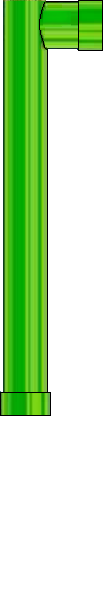
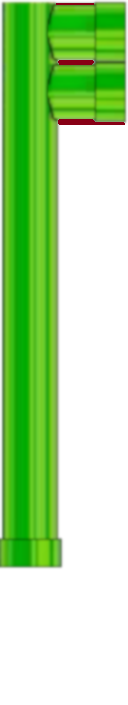
level 23

Changed region(s): [[0.0, 0.0, 1.0, 0.8114]]

diff --git a/other/mariozuma-lode/files/levels.js b/other/mariozuma-lode/files/levels.js
@@ -1052,7 +1052,6 @@ class Scene21 extends MainScene{
     }
 }
 
-
 class Scene22 extends MainScene{
 
     constructor(){
@@ -1062,7 +1061,7 @@ class Scene22 extends MainScene{
 
         this.kupaRows= [ {'row': 2, 'side': 'left'}, {'row': 2, 'side': 'right'} ];
 
-        this.nextScene['left'] = 'Scene10';
+        this.nextScene['left'] = 'Scene23';
         this.exits['left']['x'] = '0';
         this.exits['left']['y'] = '2';
 
@@ -1086,8 +1085,79 @@ class Scene22 extends MainScene{
             xs.forEach(x => this.add.sprite(x*Globals.TILE_WIDTH, y*Globals.TILE_WIDTH, 'brick'));
         }
 
-        let pipe = this.add.sprite(60, 450 -Globals.TILE_WIDTH, 'pipe-down');
+        let pipe = this.add.sprite(61, 440 -Globals.TILE_WIDTH, 'pipe-down');
         pipe.setDepth(10)
+    }
+
+    //@Overrride
+    checkExit(){
+         const coords = this.calculateSpriteSquare(this.player);
+
+        const directions = ['left', 'right'];
+
+        directions.forEach( d => {
+            const exitX = this.exits[d]['x'];
+            const exitY = this.exits[d]['y'];
+
+            if (coords[0] == exitX && coords[1] == exitY){
+                this.scene.start(this.nextScene[d]);
+
+                if (d === 'left'){
+                    Globals.PLAYER_X = Globals.TILE_WIDTH * 2;
+                    Globals.INITIAL_PLAYER_X = Globals.PLAYER_X;
+                    Globals.PLAYER_Y = 9 * Globals.TILE_WIDTH;
+                    Globals.INITIAL_PLAYER_Y = Globals.PLAYER_Y;
+                }
+                else if (d === 'right'){
+                    Globals.PLAYER_X = Globals.TILE_WIDTH * 1;
+                    Globals.INITIAL_PLAYER_X = Globals.PLAYER_X;
+                    Globals.PLAYER_Y = Globals.TILE_WIDTH * 2;
+                    Globals.INITIAL_PLAYER_Y = Globals.PLAYER_Y;
+                }
+            }
+        });
+    }
+}
+
+
+class Scene23 extends MainScene{
+
+    constructor(){
+        super('Scene23');
+
+        this.nonBrickRows = [0,1,2, 3,4,5,6, 8,9];
+
+
+        this.nextScene['left'] = 'Scene23';
+        this.exits['left']['x'] = '0';
+        this.exits['left']['y'] = '2';
+
+        this.nextScene['right'] = 'Scene23';
+        this.exits['right']['x'] = '13';
+        this.exits['right']['y'] = '2';
+    }
+
+    create(){
+        super.create();
+        this.createSpriteGroup();
+    }
+
+    createSpriteGroup() {
+        super.createSpriteGroup();
+
+        const fireAnimation = this.add.sprite(6*Globals.TILE_WIDTH + 13, 3.5*Globals.TILE_WIDTH, 'fire1');
+        fireAnimation.play('fire');
+        const xs = [0,1, 12, 13];
+        for(let y = 0; y < 7; y++){
+            xs.forEach(x => this.add.sprite(x*Globals.TILE_WIDTH, y*Globals.TILE_WIDTH, 'brick'));
+        }
+
+        let pipe = this.add.sprite(738, 800, 'pipe-down');
+        pipe.setFlipX(true);
+        pipe.setDepth(10)
+        let pipeLeft = this.add.sprite(-3, 235, 'pipe-down');
+        pipeLeft.setFlipX(true);
+        pipeLeft.setDepth(10)
     }
 
     //@Overrride
@@ -1112,7 +1182,7 @@ class Scene22 extends MainScene{
                 else if (d === 'right'){
                     Globals.PLAYER_X = Globals.TILE_WIDTH * 1;
                     Globals.INITIAL_PLAYER_X = Globals.PLAYER_X;
-                    Globals.PLAYER_Y = Globals.TILE_WIDTH * 9;
+                    Globals.PLAYER_Y = Globals.TILE_WIDTH * 2;
                     Globals.INITIAL_PLAYER_Y = Globals.PLAYER_Y;
                 }
             }

diff --git a/other/mariozuma-lode/files/conf.js b/other/mariozuma-lode/files/conf.js
@@ -4,7 +4,8 @@ const config = {
     width: 800,
     height: 600,
     scene: [Scene1, Scene2, Scene3, Scene4, Scene5, Scene6, Scene7, Scene8, Scene9, Scene10
-            , Scene11, Scene12, Scene13, Scene14, Scene15, Scene16, Scene17, Scene18, Scene19],
+            , Scene11, Scene12, Scene13, Scene14, Scene15, Scene16, Scene17, Scene18, Scene19, Scene20
+            , Scene21, Scene22, Scene23],
     physics: {
         default: 'arcade',
         arcade: {
